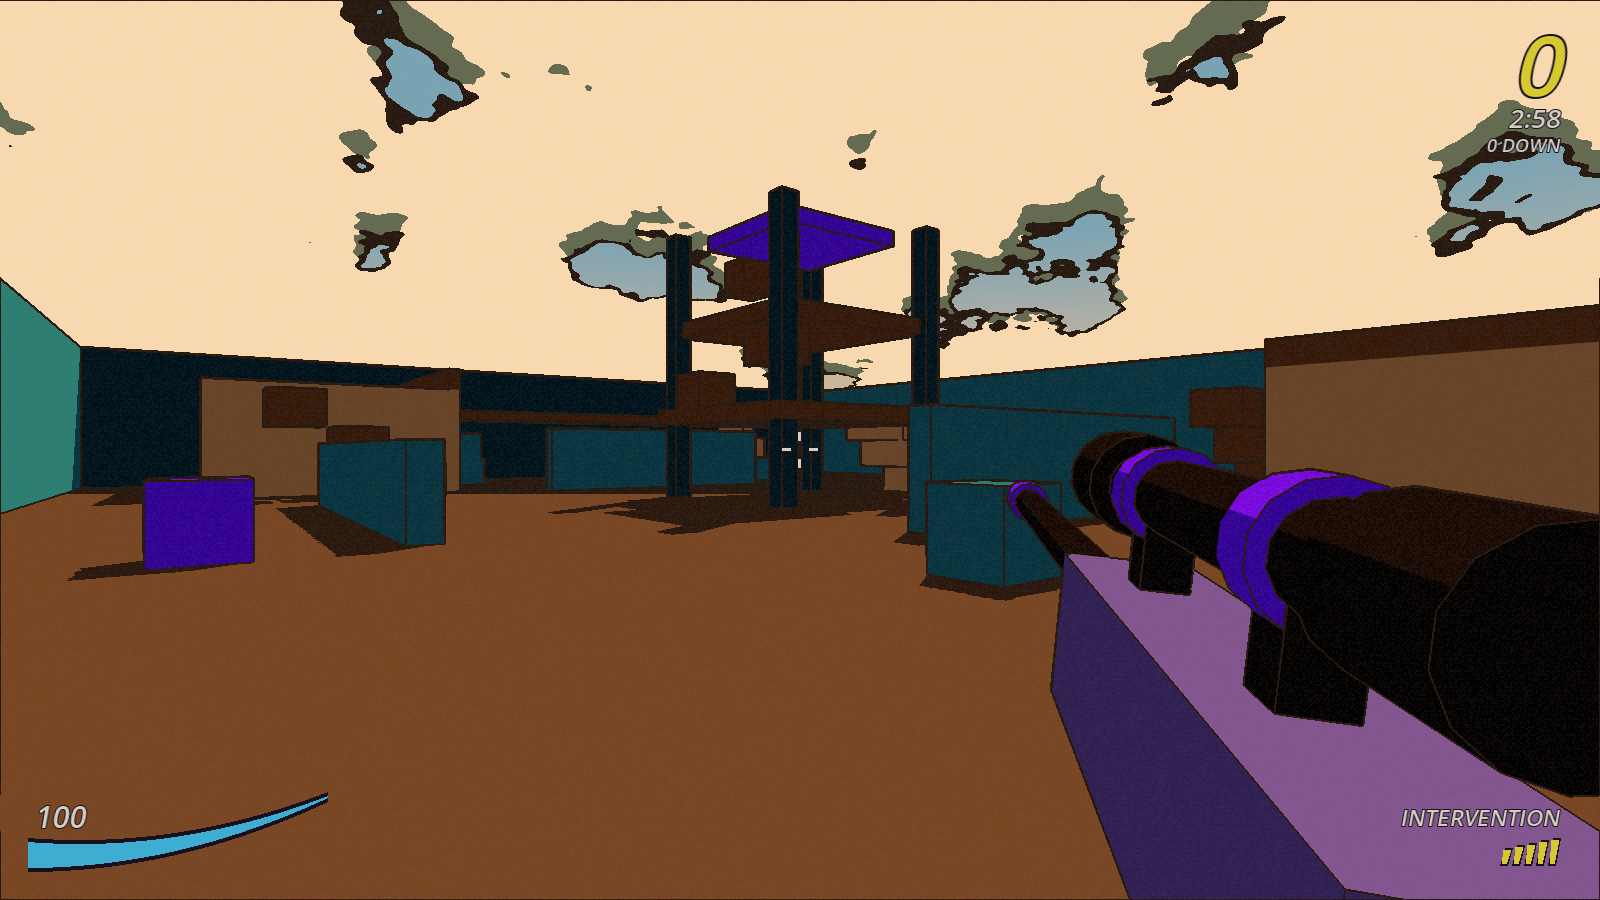
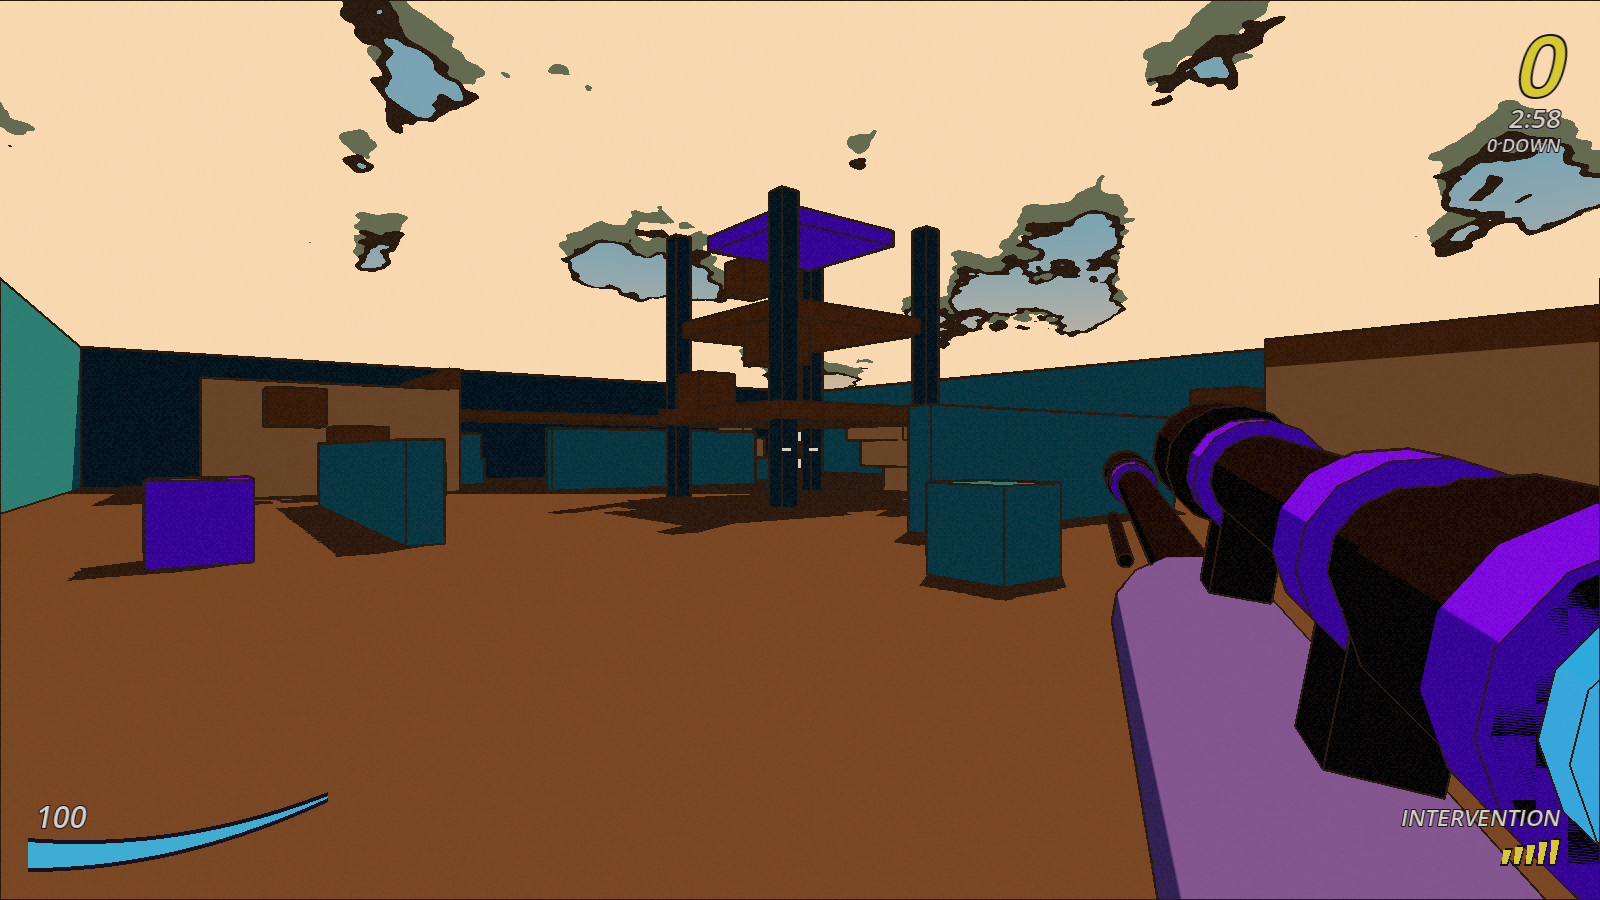
Lower crisp hitmarker, rounded Intervention-style sniper, closer hip pose, scope-in through the glass

Changed region(s): [[0.625, 0.4356, 1.0, 1.0]]

diff --git a/DECISIONS.md b/DECISIONS.md
@@ -99,3 +99,7 @@ Append-only. One line per assumption: date, the decision, the reason. Newest at 
 - 2026-09-18 — One board (note 6): FIRST LOOP and FIGURE EIGHT are gone from the game; the shipped board is BOMBA BAY (`board/boards/main.json`, generated by `tools/gen_board.py`, seed 11): a 35-space wobbly loop sampled every 3.7 m with four branches found by search (a raised 11-space bridge across the middle, two inner cuts, an outside item-rich detour), 65 spaces, 4 forks, 10 goal candidates, tiles never closer than 3.17 m, hops 3.25–5.36 m. The 26-space board lives on as the rules-test fixture (`tools/tests/fixtures/board_small.json`) because those tests know its ids. The lobby BOARD button is gone.
 - 2026-09-18 — From Sean's first full match log (him vs one bot): kills were logged twice one tick apart (the victim's tick reports the death after the shooter's, and a rollback re-simulation reported it again under the next tick), which doubled kill-feed entries and SNIPERS scores; the kill message is now deduped per life (victim + respawn count), not per tick. Verified: 0 doubles in a 17-kill bot round.
 - 2026-09-18 — The bot killed him 0.28 s into LAST STAND and beat him 9–2 and 14–3 in SNIPERS, so "normal" is retuned to be beatable: reaction 550 ms (was 280), aim at the chest (`aim_height_m` 0.45, was the head), per-shot error 5.5° (was 3°) that starts doubled and settles over 0.7 s, turn 260°/s (was 360), scope hold 32 ticks (was 22), and the reaction clock only starts when weapons unlock, so the countdown gives no head start. Measured with bots: first kill 1.07 s after the start (SNIPERS, 4 bots) and 1.7–5.6 s (LAST STAND, seeds 1–5, was 0.28 s), headshots 12 % of kills. Easy is softer still; hard keeps the old sharpness. Human verdict pending.
+- 2026-09-18 — Sean's third round (playing live): (1) hitmarker too high, wants CoD-crisp; (2) sniper body less blocky; (3) more of the sniper in frame, angled like the Intervention; (4) scope-in zooms into the receiver before the scope view, not smooth.
+- 2026-09-18 — Hitmarker take two: a click banded 0.9–3.2 kHz, a 1.5→1.15 kHz triangle knock and a 320 Hz body, 60 ms; spectral centroid 2062 Hz (was 3251), peak in the body at 283 Hz. Headshot: two knocks 45 ms apart over a 200 Hz thud, centroid 1844 Hz. Still his ear's call.
+- 2026-09-18 — Sniper viewmodel is Intervention-shaped and rounded: tube receiver, capsule magazine well, tapered stock with cheek riser and butt pad, capsule grip, bolt with a knob, long barrel with a big brake and a folded bipod, telescopic sight with rings, front and rear lenses. Hip pose moved closer and more central (0.20, −0.18, −0.27) with 20° yaw, 5° pitch, 8° roll so the length and the scope both read.
+- 2026-09-18 — Scope-in goes through the glass: the ADS pose puts the scope axis on the camera axis (model at y −0.115) with the eyepiece 5 cm from the eye; the FOV zoom is held until 55 % and finishes at 100 % (smoothstep), the HUD closes an ink iris from beyond the corners to the lens between 50 % and 90 % while the glass inside clears from dark to the zoomed view (60–90 %), the rifle leaves the frame at 64 % behind that fade, and the reticle appears at 90 %. `--ads_progress=0..1` pins the animation for screenshots (`sniper_ads_45.png`, `sniper_ads_75.png`).

diff --git a/STATUS.md b/STATUS.md
@@ -210,6 +210,12 @@ SNIPERS 9–2 and 14–3 ("normal" retuned: 550 ms reaction, chest aim, 5.5° se
 260°/s turn, no head start in the countdown; bots now first kill 1.1–5.6 s after the start,
 headshots 12 % of kills).
 
+Third round while he played: hitmarker lowered to a 2.06 kHz-centroid click-knock (was 3.25
+kHz), the sniper rebuilt rounded and Intervention-shaped with a closer 20° hip pose, and the
+scope-in now goes through the glass (rifle up → iris closes → glass clears → zoom → reticle)
+instead of zooming into the receiver. Frames: `arena_hip_sniper.png`, `sniper_ads_45.png`,
+`sniper_ads_75.png`, `arena_scoped_target.png`.
+
 ### Bugs found and fixed today (all measured before and after)
 
 1. Client's view of remote players lagged whole tick loops → 25 % hit confirmation. netfox
